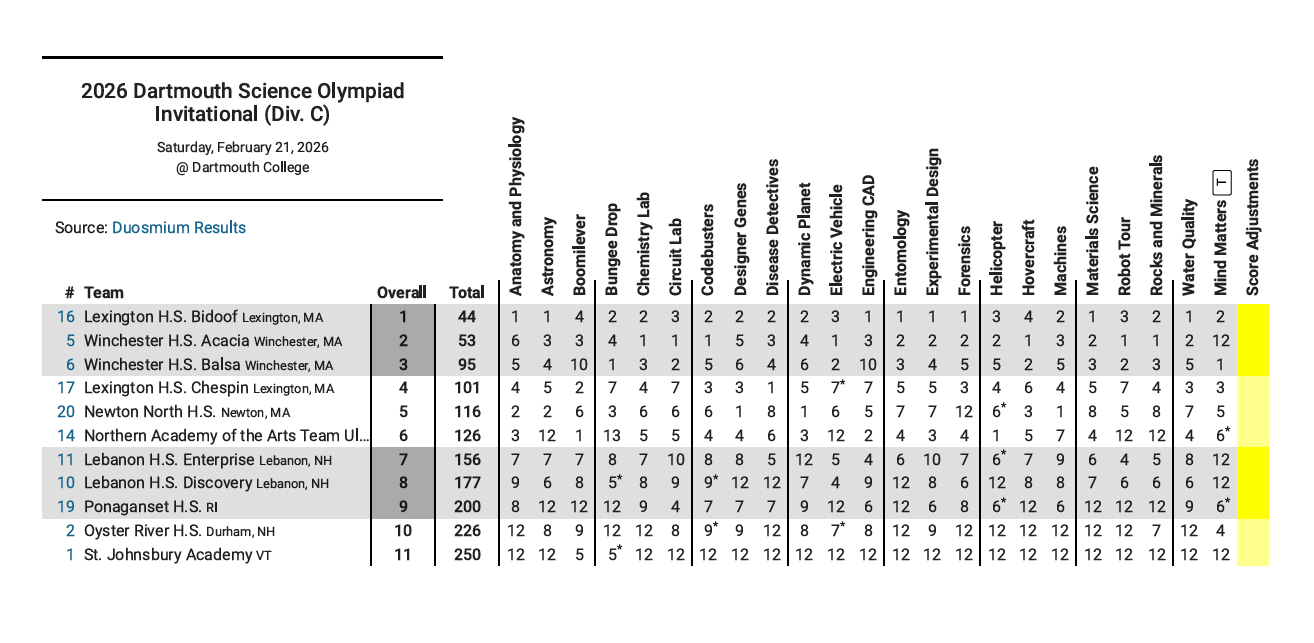
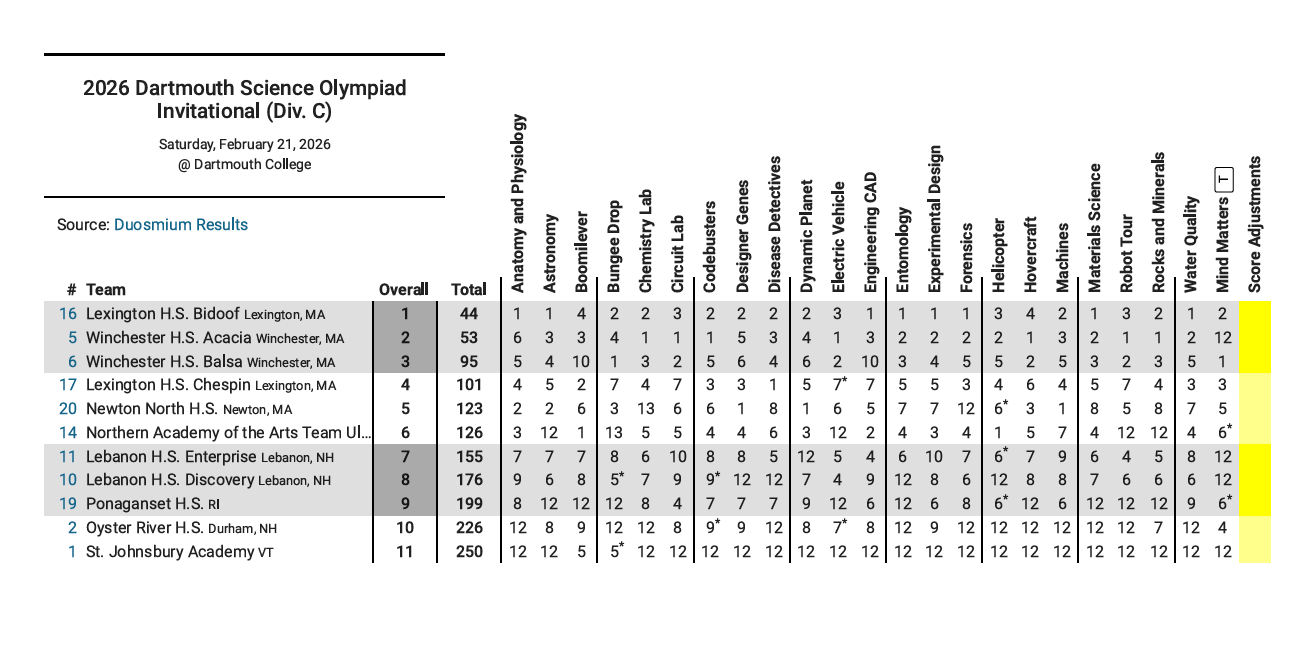
duosmium!!

Changed region(s): [[0.0312, 0.1866, 0.9673, 0.902], [0.0312, 0.1244, 0.3432, 0.3733], [0.0312, 0.0622, 0.3432, 0.0933]]

diff --git a/results.html b/results.html
@@ -37,15 +37,11 @@
                         <li>3rd: Newton North High School (MA)</li>
                     </ul-->
                     <h3>Full Results</h3>
-                    <p>TBD</p>
-                    <!--
                     <p>Check out the results on 
-                        <a href="https://www.duosmium.org/results/2025-02-15_dartmouth_invitational_c" target="_blank">
+                        <a href="https://www.duosmium.org/results/2026-02-21_invitational_c/" target="_blank">
                             Duosmium
                         </a>here!</p>
-                    
                     <img src="images/results_2026.png" width="100%">
-                    -->
 
                     <h2>2025</h2>
                     <p>Check out the 

diff --git a/updates.html b/updates.html
@@ -25,7 +25,8 @@
                 <h1>Announcements and Updates</h1>
                 <h3>Stay tuned for more info!</h3>
                 <p>
-                    2/21/25: Thank you everyone for a successful 2026 tournament!
+                    2/21/25: Thank you everyone for a successful 2026 tournament! Results are now out!
+                    More info <a href="results.html">here</a>.
                 </p>
                 <p>
                     2/20/25: Due to inclement weather, a new tournament schedule has been released.
